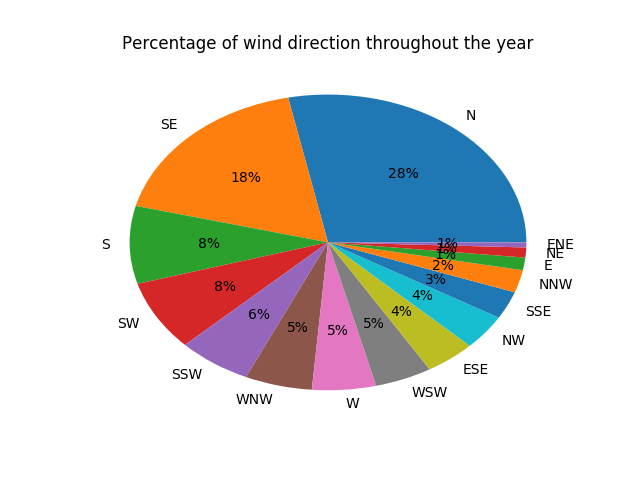
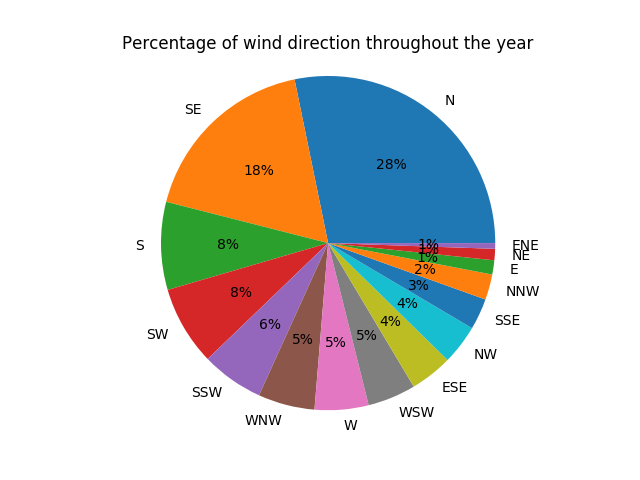
Update plots and README

diff --git a/weather_analysis.py b/weather_analysis.py
@@ -34,7 +34,7 @@ def rain_status(sum_rain):
         print('Excessive rainfall')
 
 
-def main():
+def main(with_plots):
     # read data and skip spaces
     data = pd.read_csv('data/weather_data.csv', skipinitialspace=True)
     # transform our data to a dataframe
@@ -58,14 +58,16 @@ def main():
     # make a pie with the counts percentages of all the days of the year
     plt.title('Percentage of wind direction throughout the year')
     plt.pie(counts, labels=direction, shadow=False, autopct='%1.0f%%')
+    plt.axis('equal')
 
-    # plt.savefig('pie_wind_direction.png')
-    # plt.show()
+    if with_plots:
+        plt.savefig('plots/pie_wind_direction.png')
+        plt.show()
 
     # Group by high Temp and max and get the time of the 4 highest temperatures
-    highestTemps = df.groupby('HIGH').max()['TIME'].tail(4)
+    highest_temps = df.groupby('HIGH').max()['TIME'].tail(4)
     print('> The 4 of the highest temperature are: ')
-    print(highestTemps)
+    print(highest_temps)
 
     print('> Most times the wind was: ' + str(df['DIR'].value_counts()[:1]))
     print('> Max wind speed caused: ' + str(df.groupby('WINDHIGH').max()['W_SPEED'].tail(1)))
@@ -77,8 +79,9 @@ def main():
     plt.title('Average Rain per month')
     plt.tight_layout()
 
-    # plt.show()
-    # plt.savefig('avg_rain_monthly.png')
+    if with_plots:
+        plt.savefig('plots/avg_rain_monthly.png')
+        plt.show()
 
     # Predict the temperature for 25 December of the next year
 
@@ -135,9 +138,10 @@ def main():
     for ax in axs.flat:
         ax.label_outer()
 
-    fig.savefig('temp_per_season', bbox_inches='tight')
     plt.suptitle('Seasonal Temperatures')
-    # plt.show()
+    if with_plots:
+        fig.savefig('plots/temp_per_season.png', bbox_inches='tight')
+        plt.show()
 
     # Get rain status
     print('> Rain status: ')
@@ -145,4 +149,5 @@ def main():
 
 
 if __name__ == '__main__':
-    main()
+    # set with_plots=True to see the generated plots
+    main(with_plots=True)

diff --git a/README.md b/README.md
@@ -1,2 +1,87 @@
-# weather-data-analysis
-Weather data analysis with real data
+# Data analysis and prediction of weather data
+
+The analysis is based on the **weather status** of Athens back in 2017. Based on the analysis and the real data, it is possible to extract the weather characteristics of that year (i.g., temperature, rain status, wind speed etc) and also to **predict** the temperature for specific date the next year.
+
+# Installation & run project
+These are the packages used in the analysis:
+```python
+import numpy as np
+import pandas as pd
+import matplotlib.pyplot as plt
+```
+
+```bash
+git clone https://github.com/askandali/weather-data-analysis.git
+cd weather-data-analysis
+```
+
+```python
+pip install numpy pandas matplotlib
+python weather_analysis.py
+```
+
+> To see all generated plots, set `with_plots=True` in the `main()` function
+
+# Data
+
+The file **weather_data.csv** consists of 364 observations, representing the days of the whole year. The columns of the data frame give us information about:
+
+-  The average, low and high temperature of a day.
+-  The rain status.
+- The wind speed and its direction.
+- The date, time and month of the current day.
+
+## Methods
+
+- For the analysis it was created a function that executes **cubic interpolation** in order to fill some of the NA values.
+```
+def cubic_interpolate(dataframe, colname):
+    for i, value in dataframe[colname].items():
+        if np.isnan(value):
+            dataframe[colname][i] = dataframe[colname][(i - 3):(i + 4)].interpolate(method='cubic')[i]
+```
+- Also except for the descriptive statistics, a function that checks the **rain status** of year was featured.
+```
+def rain_status(sum_rain):
+    if sum_rain < 400:
+        print('Lack of rain')
+    elif 400 <= sum_rain < 600:
+        print('Satisfactory amount of rain')
+    else:
+        print('Excessive rainfall')
+```
+
+- Furthermore, a **linear regression model** was used to predict the temperature of the following year.
+
+> To visualize some of the results of the study, **pie chart**, **histogram** and **line charts** were used.
+
+
+## Results & Visualization
+
+```
+> The median of average temperature is: 16.8
+
+> The std of average temperature is: 7.41542197484
+
+> The 4 of the highest temperature are:
+HIGH
+37.4    16:20
+40.1    13:40
+41.7    16:30
+42.1    16:40
+
+> Most times the wind was: North    103 times
+
+> Max wind speed caused: 64.4mph
+
+> The avg temperature predicted is: 9.56919357 celcius
+
+> Rain status: Excessive rainfall
+
+```
+
+![Average rain monthly plot](https://github.com/askandali/weather-data-analysis/blob/main/plots/avg_rain_monthly.png)
+
+![Pie wind direction plot](https://github.com/askandali/weather-data-analysis/blob/main/plots/pie_wind_direction.png)
+
+![Temperature per season plot](https://github.com/askandali/weather-data-analysis/blob/main/plots/temp_per_season.png)
